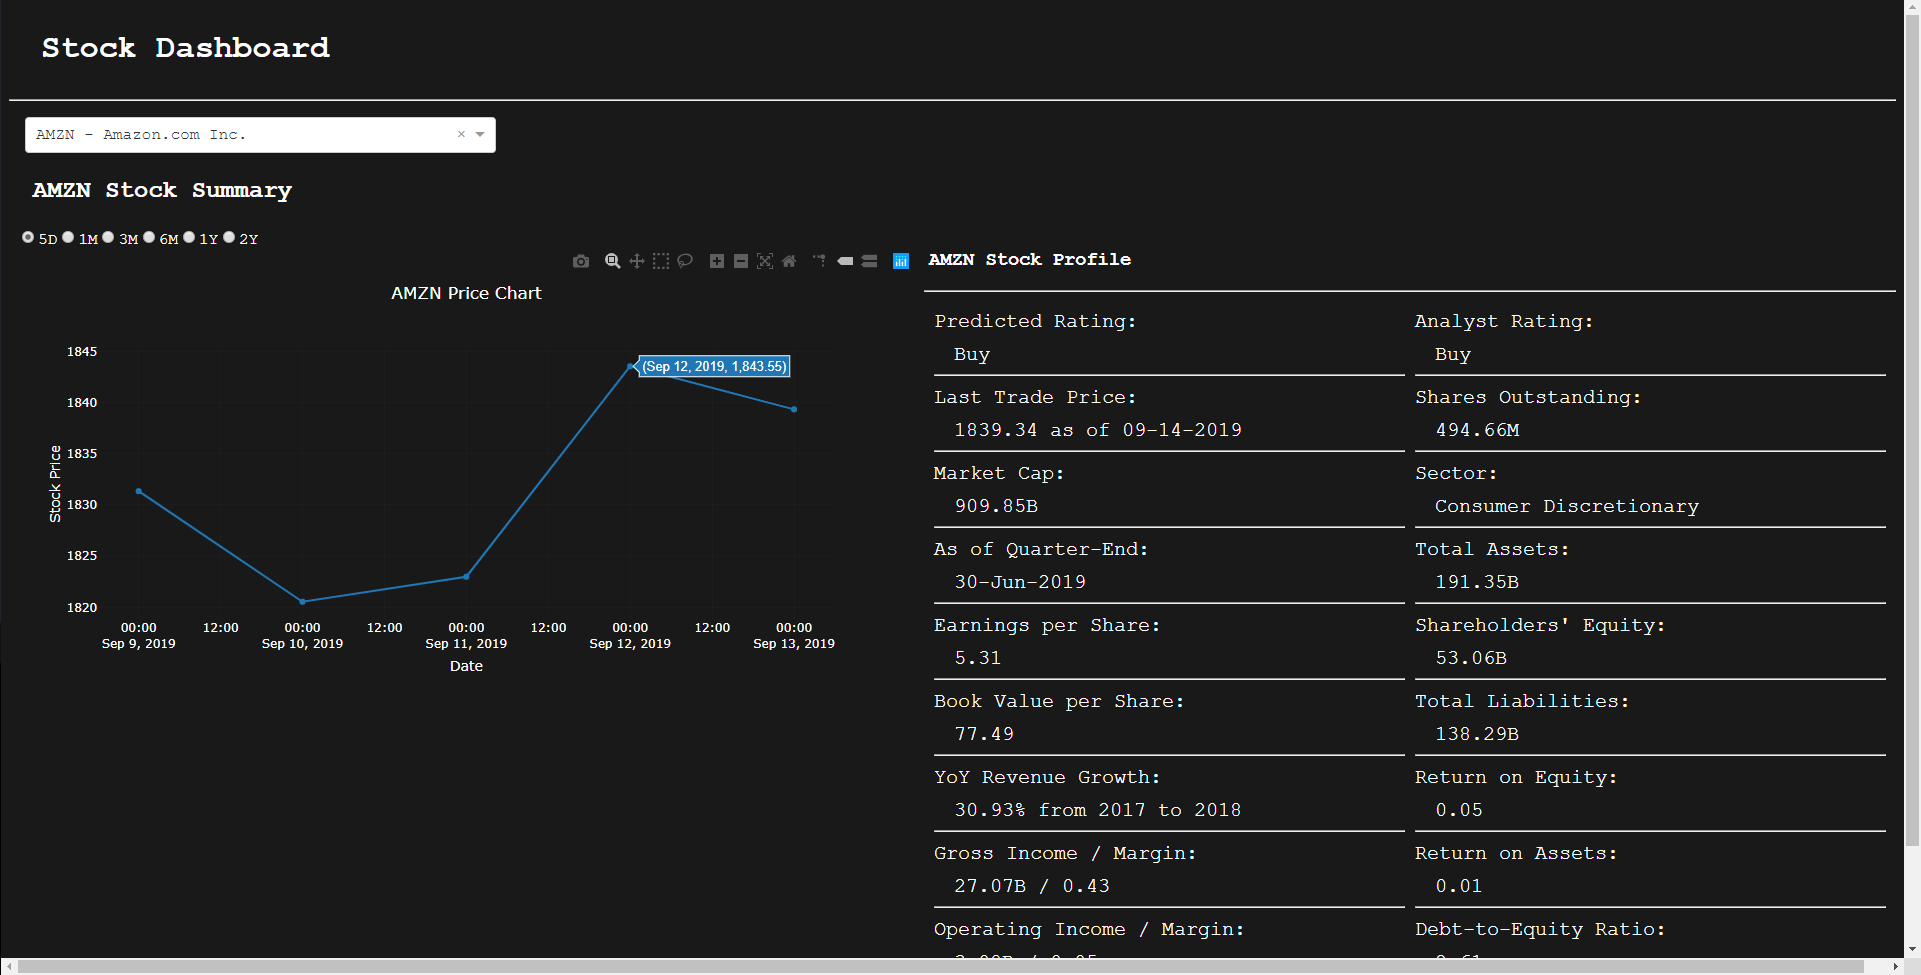
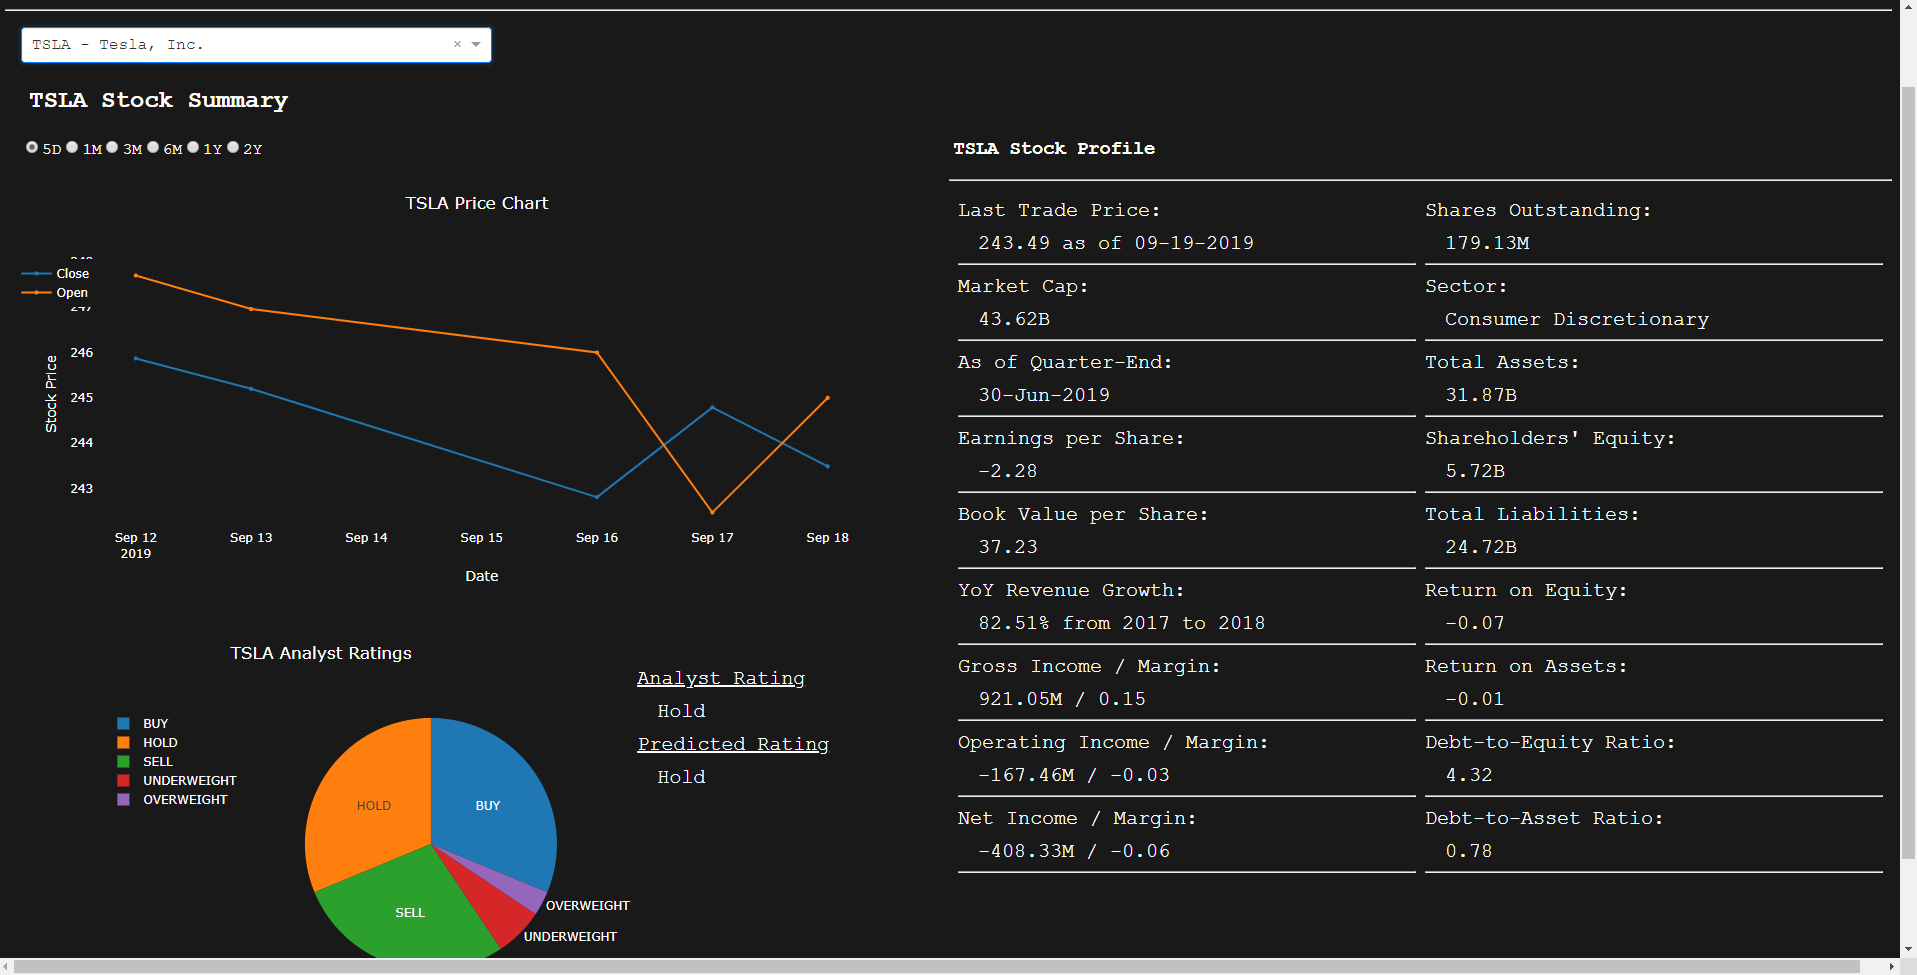
Adding Pie Chart

diff --git a/stock_dashboard.py b/stock_dashboard.py
@@ -33,8 +33,28 @@ def load_data():
 
     return df
 
+def load_ratings():
+    conn = psycopg2.connect(
+        database = 'cuzegotk',
+        user = 'cuzegotk',
+        password = 'NekW2BqJ8hW1wO3hCdpuEESPiP-y131V',
+        host = 'raja.db.elephantsql.com'
+    )
+    cur = conn.cursor()
+    cur.execute('SELECT * FROM analystratings')
+    data = cur.fetchall()
+    cur.close()
+    conn.close()
+
+    columns = ['ticker', 'buy', 'overweight', 'hold', 'underweight', 'sell', 'average']
+    df = pd.DataFrame(data, columns = columns)
+
+    return df
+
+
 ## Loading data from database
 df = load_data()
+df1 = load_ratings()
 
 ## Load Drop Down Bar
 def load_dropdown():
@@ -94,63 +114,90 @@ app.layout = html.Div([
             'color': '#ffffff',
         }
     ),
-    dcc.RadioItems(
-        id='timeline',
-        options=[
-            {'label': '5D', 'value': 5},
-            {'label': '1M', 'value': 23},
-            {'label': '3M', 'value': 69},
-            {'label': '6M', 'value': 138},
-            {'label': '1Y', 'value': 252},
-            {'label': '2Y', 'value': 504}
-        ],
-        value=5,
-        style={
-            'display': 'inline-block',
-            'margin-left': '0.5em',
-            'font-family': 'Courier New, Times, Helvetica',
-            'color': '#ffffff',
-        }
-    ),
     html.Div([
-        dcc.Graph(
-            id='figure',
-            figure={
-                'data':[],
-                'layout':go.Layout(
-                    plot_bgcolor= '#191919',
-                    paper_bgcolor= '#191919',
-                    font= {
-                        'color': '#ffffff'
-                    }
-                    )
-            },
-            style={
-                'width':'47.5%',
-                'margin-left': '0.5%',
-                'float': 'left',
-                'height': 'auto',
-            }
-        ),
         html.Div([
-            html.H3(
-                id='profile',
-                children='Stock Profile',
+            dcc.RadioItems(
+                id='timeline',
+                options=[
+                    {'label': '5D', 'value': 5},
+                    {'label': '1M', 'value': 23},
+                    {'label': '3M', 'value': 69},
+                    {'label': '6M', 'value': 138},
+                    {'label': '1Y', 'value': 252},
+                    {'label': '2Y', 'value': 504}
+                ],
+                value=5,
                 style={
-                    'width': '100%',
-                    'margin-top': '0',
-                    'margin-left': '0.5%',
+                    'display': 'inline-block',
+                    'margin-left': '1em',
                     'font-family': 'Courier New, Times, Helvetica',
                     'color': '#ffffff',
-                    }
+                }
             ),
-            html.Hr(),
+            dcc.Graph(
+                id='figure',
+                figure={
+                    'data':[],
+                    'layout':go.Layout(
+                        plot_bgcolor= '#191919',
+                        paper_bgcolor= '#191919',
+                        font= {
+                            'color': '#ffffff'
+                        }
+                        )
+                },
+                style={
+                    'width':'100%'
+                }
+            ),
             html.Div([
+                dcc.Graph(
+                    id='pie-chart',
+                    figure={
+                        'data':[],
+                        'layout':go.Layout(
+                            plot_bgcolor= '#191919',
+                            paper_bgcolor= '#191919',
+                            font= {
+                                'color': '#ffffff'
+                            }
+                            )
+                    },
+                    style={
+                        'width':'67%',
+                        'float':'left'
+                    }
+                ),
+                html.Div([
                     html.P(
-                        children='Predicted Rating:',
+                        children='Analyst Rating',
                         style={
                             'font-size': '1.25em',
                             'font-family': 'Courier New, Times, Helvetica',
+                            'text-decoration': 'underline',
+                            'color': '#ffffff',
+                            'margin-top': '0.5em',
+                            'margin-bottom': '0.5em'
+                        }
+                    ),
+                    html.P(
+                        id='analyst-rating',
+                        children='N/A',
+                        style={
+                            'font-size': '1.25em',
+                            'font-family': 'Courier New, Times, Helvetica',
+                            'color': '#ffffff',
+                            'margin-left': '1em',
+                            'margin-top': '0',
+                            'margin-bottom': '0'
+                        }
+                    ),
+                    html.P(
+                        children='Predicted Rating',
+                        style={
+                            'font-size': '1.25em',
+                            'font-family': 'Courier New, Times, Helvetica',
+                            'text-decoration': 'underline',
                             'color': '#ffffff',
                             'margin-top': '0.5em',
                             'margin-bottom': '0.5em'
@@ -168,7 +215,39 @@ app.layout = html.Div([
                             'margin-bottom': '0'
                         }
                     ),
-                    html.Hr(),
+                ],
+                style={
+                    'width':'33%',
+                    'float':'right',
+                    'margin-top':'3em'
+                }
+                )
+            ],
+            style={
+                'width':'100%'
+            }
+            ),
+    ],
+    style={
+        'width': '50%',
+        'float': 'left'
+    }
+    ),
+    html.Div([
+        html.Div([
+            html.H3(
+                id='profile',
+                children='Stock Profile',
+                style={
+                    'width': '100%',
+                    'margin-top': '0',
+                    'margin-left': '0.5%',
+                    'font-family': 'Courier New, Times, Helvetica',
+                    'color': '#ffffff',
+                    }
+            ),
+            html.Hr(),
+            html.Div([
                     html.P(
                         children='Last Trade Price:',
                         style={
@@ -387,29 +466,6 @@ app.layout = html.Div([
             ),
             html.Div([
                     html.P(
-                        children='Analyst Rating:',
-                        style={
-                            'font-size': '1.25em',
-                            'font-family': 'Courier New, Times, Helvetica',
-                            'color': '#ffffff',
-                            'margin-top': '0.5em',
-                            'margin-bottom': '0.5em'
-                        }
-                    ),
-                    html.P(
-                        id='analyst-rating',
-                        children='N/A',
-                        style={
-                            'font-size': '1.25em',
-                            'font-family': 'Courier New, Times, Helvetica',
-                            'color': '#ffffff',
-                            'margin-left': '1em',
-                            'margin-top': '0',
-                            'margin-bottom': '0'
-                        }
-                    ),
-                    html.Hr(),
-                    html.P(
                         children='Shares Outstanding:',
                         style={
                             'font-size': '1.25em',
@@ -627,11 +683,16 @@ app.layout = html.Div([
             ),
             ],
             style={
-                'width':'51.5%',
-                'float': 'right'
+                'width':'50%',
+                'float':'right'
             }
         )
-        ],
+    ],
+    style={
+        'width': '100%'
+    }
+    ),
+    ],
         style={
             'width':'100%',
         }
@@ -667,7 +728,16 @@ def update_output(ticker, days):
                     data=[go.Scatter(
                         x=[data.index[i].strftime('%Y-%m-%d') for i in range(len(data)-1,len(data)-days-1,-1)],
                         y=[data['Adj Close'][i] for i in range(len(data)-1,len(data)-days-1,-1)],
-                        mode='lines+markers'
+                        mode='lines+markers',
+                        marker=dict(size=4),
+                        name='Close'
+                    ),
+                    go.Scatter(
+                        x=[data.index[i].strftime('%Y-%m-%d') for i in range(len(data)-1,len(data)-days-1,-1)],
+                        y=[data['Open'][i] for i in range(len(data)-1,len(data)-days-1,-1)],
+                        mode='lines+markers',
+                        marker=dict(size=4),
+                        name='Open'
                     )],
         layout=go.Layout(
             title='{} Price Chart'.format(ticker),
@@ -676,6 +746,7 @@ def update_output(ticker, days):
             hovermode='closest',
             plot_bgcolor= '#191919',
             paper_bgcolor= '#191919',
+            legend=dict(x=-0.1),
             font= {
                 'color': '#ffffff'
             }
@@ -683,6 +754,66 @@ def update_output(ticker, days):
     )
 
     return new_figure
+
+
+@app.callback(Output('pie-chart', 'figure'), [Input('stock-search-bar', 'value')])
+def update_output(ticker):
+
+    data = [int(i) for i in df1[df1['ticker'] == ticker].values[0][1:-1]]
+    columns = [i.upper() for i in df1[df1['ticker'] == ticker].columns[1:-1]]
+
+    if sum(data) > 0:
+        labels=[]
+        values=[]
+        for i,v in enumerate(data):
+            if v > 0:
+                labels.append(columns[i])
+                values.append(v)
+
+
+        new_figure = go.Figure(
+                        data=[go.Pie(
+                            labels=labels,
+                            values=values,
+                            hoverinfo='label+value',
+                            textinfo='label'
+                        )],
+            layout=go.Layout(
+                title='{} Analyst Ratings'.format(ticker),
+                plot_bgcolor= '#191919',
+                paper_bgcolor= '#191919',
+                legend=dict(x=-0.8),
+                margin=dict(l=300),
+                font= {
+                    'color': '#ffffff'
+                }
+                )
+        )
+
+        return new_figure
+    else:
+        new_figure = go.Figure(
+                        data=[go.Pie(
+                            labels=['No Ratings'],
+                            values=[1],
+                            hoverinfo='label+value',
+                            textinfo='label'
+                        )],
+            layout=go.Layout(
+                title='{} Analyst Ratings'.format(ticker),
+                plot_bgcolor= '#191919',
+                paper_bgcolor= '#191919',
+                legend=dict(x=-0.8),
+                margin=dict(l=300),
+                font= {
+                    'color': '#ffffff'
+                }
+                )
+        )
+
+        return new_figure
+
+
 
 ## Update rating predicted by our machine learning model for the stock
 @app.callback(Output('predicted-rating', 'children'), [Input('stock-search-bar', 'value')])
@@ -707,10 +838,19 @@ def update_output(value):
 
     else:
         try:
-            return df[df['ticker'] == value]['rating'].values[0]
+            rating = df1[df1['ticker'] == value].values[0][-1]
+
+            if rating.lower() == 'hold':
+                return 'Hold'
+            elif rating.lower() == 'buy' or rating.lower() == 'overweight':
+                return 'Buy'
+            elif rating.lower() == 'sell' or rating.lower() == 'underweight':
+                return 'Sell'
+            else:
+                return 'No Ratings'
 
         except:
-            return 'N/A'
+            return 'No Ratings'
 
 ## Update the number of shares outstanding for the stock
 @app.callback(Output('shares-outstanding', 'children'), [Input('stock-search-bar', 'value')])
